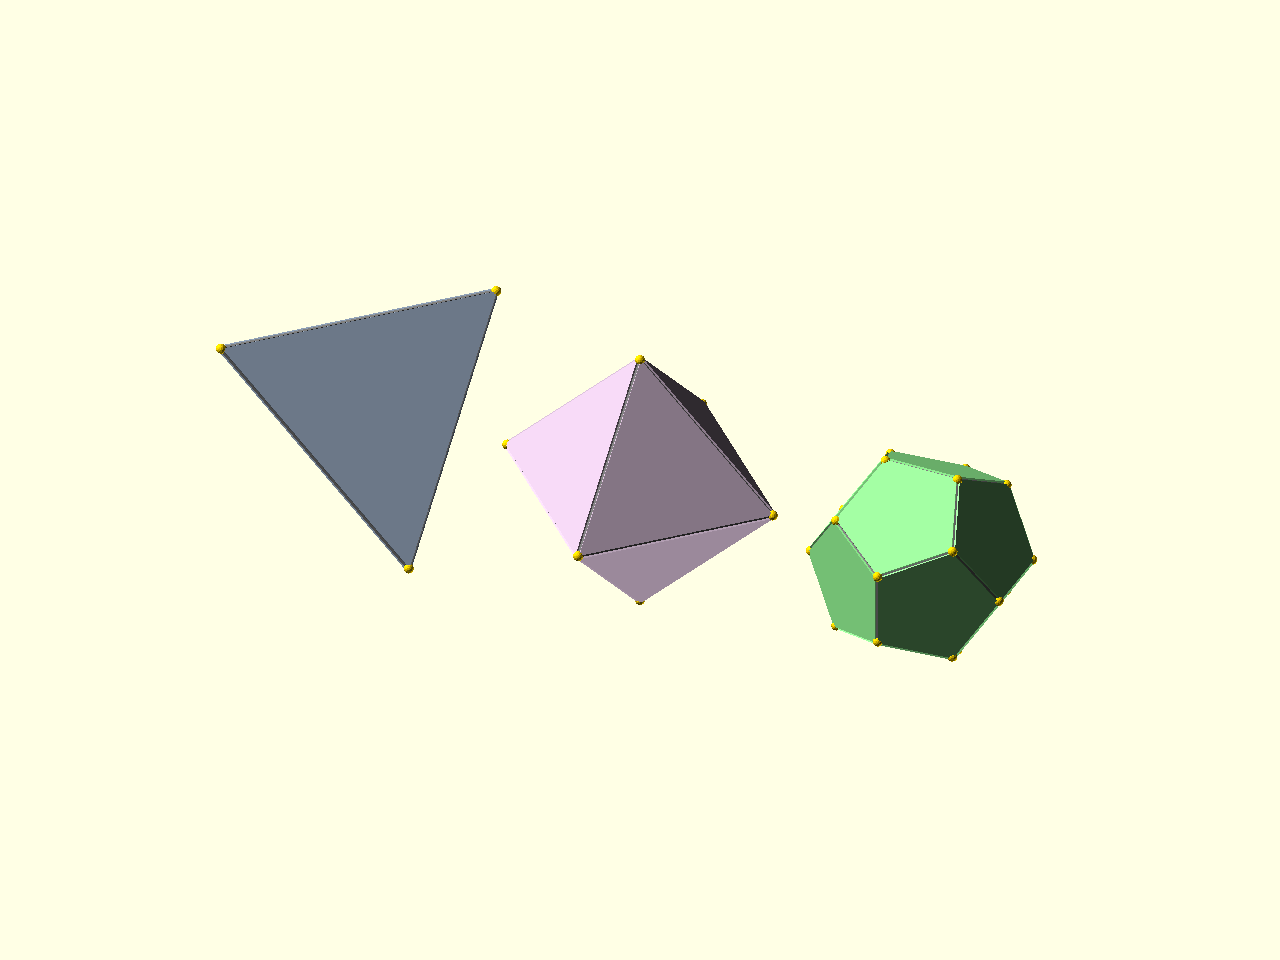
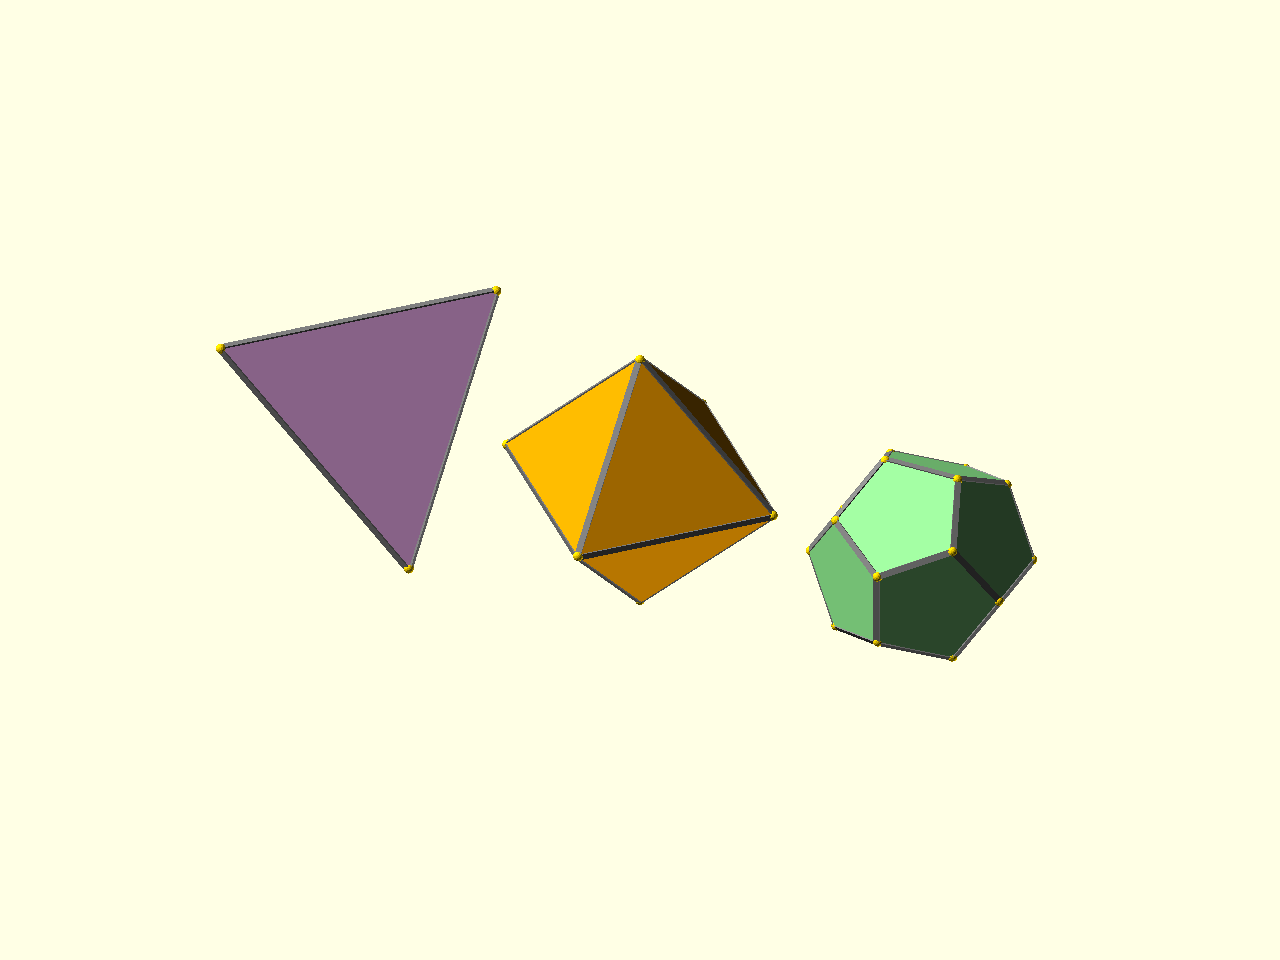
[#188] Fixed colours and sizes

diff --git a/README.md b/README.md
@@ -48,17 +48,17 @@ use <polysymmetrica/models/platonics_all.scad>
 
 p = poly_truncate(dodecahedron());
 
-color("lightsteelblue")
+color("plum")
     place_on_faces(p, inter_radius = 35)
         linear_extrude(1) polygon($ps_face_pts2d);
 
 color("gold")
     place_on_vertices(p, inter_radius = 35)
-        sphere(1.6, $fn = 16);
+        sphere(r = 1.6, $fn = 16);
 
 color("silver")
     place_on_edges(p, inter_radius = 35)
-        cube([$ps_edge_len, 1, 1], center = true);
+        cube([$ps_edge_len, 1.5, 1], center = true);
 ```
 
 This builds a truncated dodecahedron: it renders a polygon on each face, places a small

diff --git a/docs/getting_started.md b/docs/getting_started.md
@@ -91,18 +91,18 @@ use <polysymmetrica/models/platonics_all.scad>
 p = poly_truncate(dodecahedron());
 ir = 35;
 
-color("lightsteelblue")
+color("plum")
     place_on_faces(p, inter_radius = ir)
         linear_extrude(height = 1)
             polygon(points = $ps_face_pts2d);
 
 color("silver")
     place_on_edges(p, inter_radius = ir)
-        cube([$ps_edge_len, 1, 1], center = true);
+        cube([$ps_edge_len, 1.5, 1], center = true);
 
 color("gold")
     place_on_vertices(p, inter_radius = ir)
-        sphere(1.6, $fn = 16);
+        sphere(r = 1.6, $fn = 16);
 ```
 
 Render it:

diff --git a/docs/tutorials/01_models.md b/docs/tutorials/01_models.md
@@ -12,9 +12,9 @@ module:
 
 ```scad
 translate([-72, 0, 0])
-    preview_poly(tetrahedron(), 24, "lightsteelblue");
+    preview_poly(tetrahedron(), 24, "plum");
 
-preview_poly(octahedron(), 24, "thistle");
+preview_poly(octahedron(), 24, "orange");
 
 translate([72, 0, 0])
     preview_poly(dodecahedron(), 24, "palegreen");

diff --git a/docs/tutorials/02_placement.md b/docs/tutorials/02_placement.md
@@ -33,9 +33,9 @@ coordinates:
 
 ```scad
 module inset_face_panel() {
-    color("lightsteelblue")
+    color("plum")
         linear_extrude(height = 1.2)
-            polygon(points = [for (pt = $ps_face_pts2d) pt * 0.78]);
+            polygon(points = $ps_face_pts2d * 0.75);
 }
 ```
 
